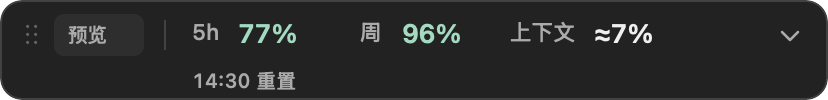
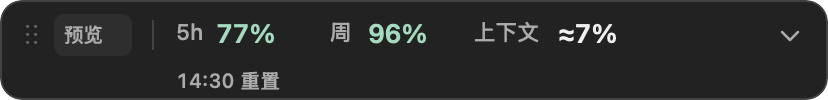
Tighten HUD spacing and size reset time to its text

diff --git a/Sources/CodexHUD.swift b/Sources/CodexHUD.swift
@@ -70,8 +70,15 @@ final class HUDView: NSView {
     override func mouseExited(with event: NSEvent) { hovered = false; needsDisplay = true }
     override func resetCursorRects() { addCursorRect(bounds, cursor: .openHand) }
 
-    static func headerHeight(width: CGFloat, hasReset: Bool) -> CGFloat {
-        hasReset && width < 526 ? 50 : 36
+    static func resetWidth(_ label: String?) -> CGFloat {
+        guard let label = label else { return 0 }
+        return ceil((label as NSString).size(withAttributes: [.font: NSFont.monospacedDigitSystemFont(ofSize: 10, weight: .medium)]).width)
+    }
+    static func preferredWidth(resetLabel: String?) -> CGFloat {
+        380 + (resetLabel == nil ? 0 : resetWidth(resetLabel) + 4)
+    }
+    static func headerHeight(width: CGFloat, resetLabel: String?) -> CGFloat {
+        resetLabel != nil && width < preferredWidth(resetLabel: resetLabel) ? 50 : 36
     }
 
     override func draw(_ dirtyRect: NSRect) {
@@ -82,9 +89,9 @@ final class HUDView: NSView {
         outline.lineWidth = 1
         outline.stroke()
         let hasReset = presentation.resetLabel != nil
-        let inlineReset = hasReset && bounds.width >= 526
-        let shift: CGFloat = inlineReset ? 116 : 0
-        let top = bounds.height - Self.headerHeight(width: bounds.width, hasReset: hasReset)
+        let inlineReset = hasReset && bounds.width >= Self.preferredWidth(resetLabel: presentation.resetLabel)
+        let shift: CGFloat = inlineReset ? Self.resetWidth(presentation.resetLabel) + 4 : 0
+        let top = bounds.height - Self.headerHeight(width: bounds.width, resetLabel: presentation.resetLabel)
         let row = bounds.height - 36
         func text(_ value: String, x: CGFloat, y: CGFloat, width: CGFloat, size: CGFloat = 11,
                   color: NSColor = Palette.text, weight: NSFont.Weight = .medium, digits: Bool = false) {
@@ -102,25 +109,25 @@ final class HUDView: NSView {
             }
         }
         NSColor(white: 1, alpha: 0.055).setFill()
-        NSBezierPath(roundedRect: CGRect(x: 27, y: row + 8, width: 45, height: 21), xRadius: 5, yRadius: 5).fill()
-        text(presentation.source, x: 34, y: row + 10, width: 35, size: 10,
+        NSBezierPath(roundedRect: CGRect(x: 27, y: row + 8, width: 39, height: 21), xRadius: 5, yRadius: 5).fill()
+        text(presentation.source, x: 32, y: row + 10, width: 33, size: 10,
              color: presentation.source == "失效" ? Palette.yellow : Palette.muted)
         Palette.border.setFill()
-        NSRect(x: 82, y: row + 11, width: 1, height: 15).fill()
+        NSRect(x: 76, y: row + 11, width: 1, height: 15).fill()
         func percent(_ value: Int?) -> String { value.map { "\($0)%" } ?? "—" }
-        text("5h", x: 96, y: row + 11, width: 19, color: Palette.muted)
-        text(percent(presentation.fiveHour), x: 119, y: row + 9.5, width: 49, size: 13,
+        text("5h", x: 88, y: row + 11, width: 19, color: Palette.muted)
+        text(percent(presentation.fiveHour), x: 108, y: row + 9.5, width: 43, size: 13,
              color: Palette.quota(presentation.fiveHour), weight: .semibold, digits: true)
         if let reset = presentation.resetLabel {
-            text(reset, x: inlineReset ? 168 : 96, y: inlineReset ? row + 11 : top + 1,
-                 width: 112, size: 10, color: Palette.muted, digits: true)
+            text(reset, x: inlineReset ? 154 : 88, y: inlineReset ? row + 11 : top + 1,
+                 width: Self.resetWidth(reset) + 1, size: 10, color: Palette.muted, digits: true)
         }
-        text("周", x: 180 + shift, y: row + 11, width: 17, color: Palette.muted)
-        text(percent(presentation.weekly), x: 201 + shift, y: row + 9.5, width: 49, size: 13,
+        text("周", x: 165 + shift, y: row + 11, width: 17, color: Palette.muted)
+        text(percent(presentation.weekly), x: 184 + shift, y: row + 9.5, width: 49, size: 13,
              color: Palette.quota(presentation.weekly), weight: .semibold, digits: true)
-        text("上下文", x: 255 + shift, y: row + 11, width: 38, color: Palette.muted)
+        text("上下文", x: 237 + shift, y: row + 11, width: 38, color: Palette.muted)
         let context = presentation.context.map { "≈\($0)%" } ?? "—"
-        text(context, x: 297 + shift, y: row + 9.5, width: 64, size: 13, weight: .semibold, digits: true)
+        text(context, x: 279 + shift, y: row + 9.5, width: 64, size: 13, weight: .semibold, digits: true)
         let chevron = NSBezierPath()
         let cy = row + 18
         let direction: CGFloat = presentation.expanded ? -1 : 1
@@ -189,7 +196,7 @@ final class Controller: NSObject, NSApplicationDelegate {
 
     func applicationDidFinishLaunching(_ notification: Notification) {
         NSApp.setActivationPolicy(.accessory)
-        panel = NSPanel(contentRect: NSRect(x: 0, y: 0, width: 410, height: 36),
+        panel = NSPanel(contentRect: NSRect(x: 0, y: 0, width: 380, height: 36),
                         styleMask: [.borderless, .nonactivatingPanel], backing: .buffered, defer: false)
         panel.level = .floating
         panel.backgroundColor = .clear
@@ -255,10 +262,10 @@ final class Controller: NSObject, NSApplicationDelegate {
 
     private func place() {
         guard let host = host else { return }
-        let hasReset = resetLabel() != nil
-        let preferredWidth: CGFloat = hasReset ? 526 : 410
+        let reset = resetLabel()
+        let preferredWidth = HUDView.preferredWidth(resetLabel: reset)
         let actualWidth = min(preferredWidth, host.width - 16)
-        let height = HUDView.headerHeight(width: actualWidth, hasReset: hasReset) + (expanded ? 60 : 0)
+        let height = HUDView.headerHeight(width: actualWidth, resetLabel: reset) + (expanded ? 60 : 0)
         let frame = HUDGeometry.frame(host: host, width: preferredWidth, height: height, position: position)
         if panel.frame != frame { panel.setFrame(frame, display: true) }
         render(width: frame.width)
@@ -481,7 +488,7 @@ private func renderPreview(at path: String) {
     let directory = URL(fileURLWithPath: path)
     try! FileManager.default.createDirectory(at: directory, withIntermediateDirectories: true)
     for (name, expanded, five, week, context) in [("compact", false, 77, 96, 7), ("expanded", true, 77, 96, 7), ("low-quota", false, 12, 38, 89), ("narrow", false, 77, 96, 7)] {
-        let size = NSSize(width: name == "narrow" ? 414 : 526, height: name == "narrow" ? 50 : expanded ? 96 : 36)
+        let size = NSSize(width: name == "narrow" ? 414 : HUDView.preferredWidth(resetLabel: "14:30 重置"), height: name == "narrow" ? 50 : expanded ? 96 : 36)
         let window = NSWindow(contentRect: NSRect(origin: .zero, size: size), styleMask: .borderless, backing: .buffered, defer: false)
         let view = HUDView(frame: NSRect(origin: .zero, size: size))
         window.contentView = view

diff --git a/Sources/tracker.py b/Sources/tracker.py
@@ -348,7 +348,7 @@ def appserver_quota(binary: str, timeout: float = 12.0) -> dict:
     try:
         deadline = time.monotonic() + timeout
         send({'id': 1, 'method': 'initialize', 'params': {
-            'clientInfo': {'name': 'codex_desktop_hud', 'title': 'Codex Desktop HUD', 'version': '0.3.2'}}})
+            'clientInfo': {'name': 'codex_desktop_hud', 'title': 'Codex Desktop HUD', 'version': '0.3.3'}}})
         init = receive(deadline, {1}).get(1)
         if not init or 'error' in init:
             raise RuntimeError('app-server initialize failed')

diff --git a/README.md b/README.md
@@ -1,4 +1,4 @@
-# Codex Desktop HUD v0.3.2 (macOS)
+# Codex Desktop HUD v0.3.3 (macOS)
 
 独立的 Codex 伴随 HUD。**没有顶部菜单栏图标，也不出现在 Dock**；仅在 Codex 置前且存在可见主窗口时显示，所有设置通过 HUD 右键菜单操作。不会修改或注入官方 App。
 
@@ -6,7 +6,7 @@
 
 - 默认在窗口内部右上角显示紧凑条：`最近  5h 77%  14:30 重置  周 96%  上下文 ≈7%`。宽窗口靠标题栏右侧；宽度不足 1050 点时下移 48 点，减少遮挡标题。
 - 拖动条上任意位置即可移动，范围限制在 Codex 窗口内，离边缘至少 8 点。位置按窗口内的相对比例保存，移动、缩放窗口时继续跟随。
-- 点击展开或收起。展开为两行布局：顶部保留额度与上下文，下面分区显示轮数、工具步数、累计缓存和订阅。有重置时间时，收起尺寸为 526 × 36 点，展开为 526 × 96 点；窄窗口自动将重置时间放在 5h 下方，并增加 14 点高度。没有重置时间时保持 410 点宽度；悬停可查看完整数值。
+- 点击展开或收起。展开为两行布局：顶部保留额度与上下文，下面分区显示轮数、工具步数、累计缓存和订阅。有同日重置时间时，收起尺寸约为 437 × 36 点，展开约为 437 × 96 点；宽度按重置时间文字长度自动调整。窄窗口自动将重置时间放在 5h 下方，并增加 14 点高度。没有重置时间时保持 380 点宽度；悬停可查看完整数值。
 - 右键：展开/收起、恢复右上角、立即刷新额度、绑定聊天、订阅标签、退出。
 - 隐藏 Codex、最小化、关闭可见窗口或切到其他应用时，HUD 自动隐藏。检测间隔约 150 毫秒；不是与宿主同一帧更新。
 - 退出 Codex 应用时，HUD 进程随之退出。仅关闭窗口时隐藏并等待新窗口；重新启动 Codex 应用后需重新打开 HUD。
